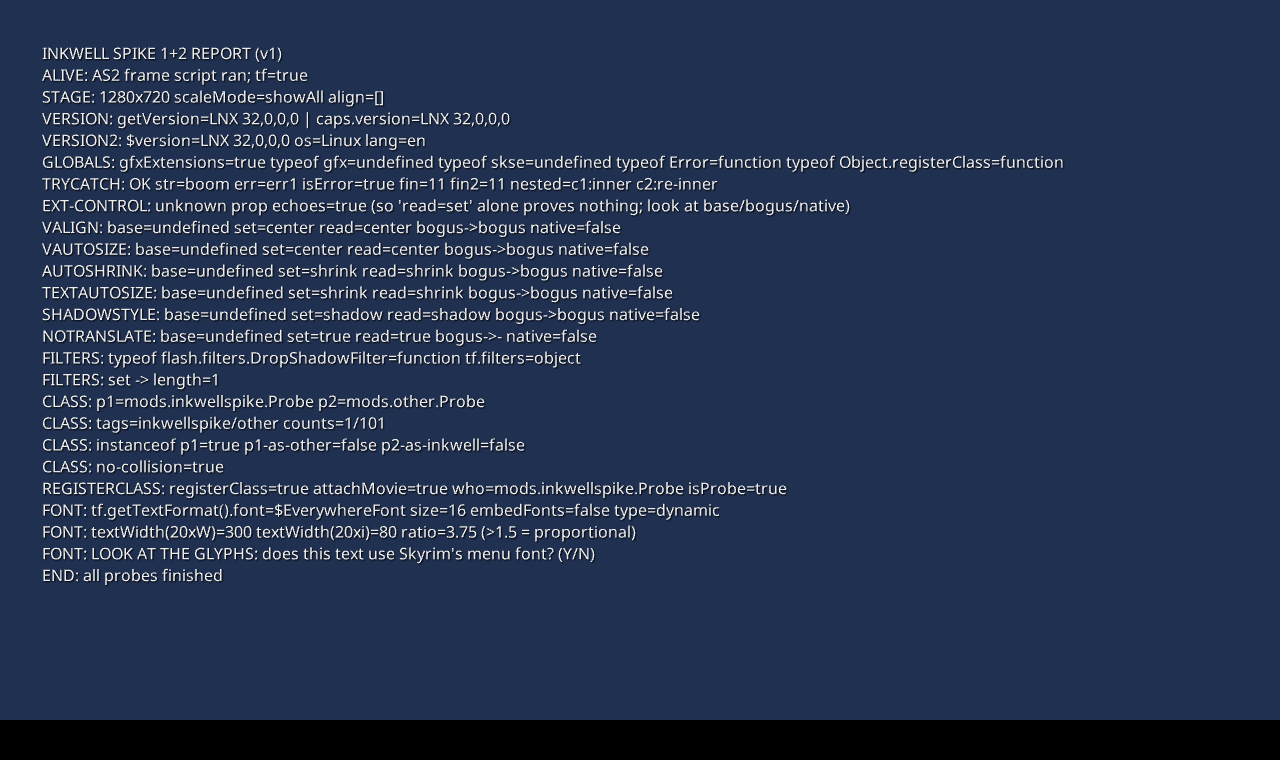
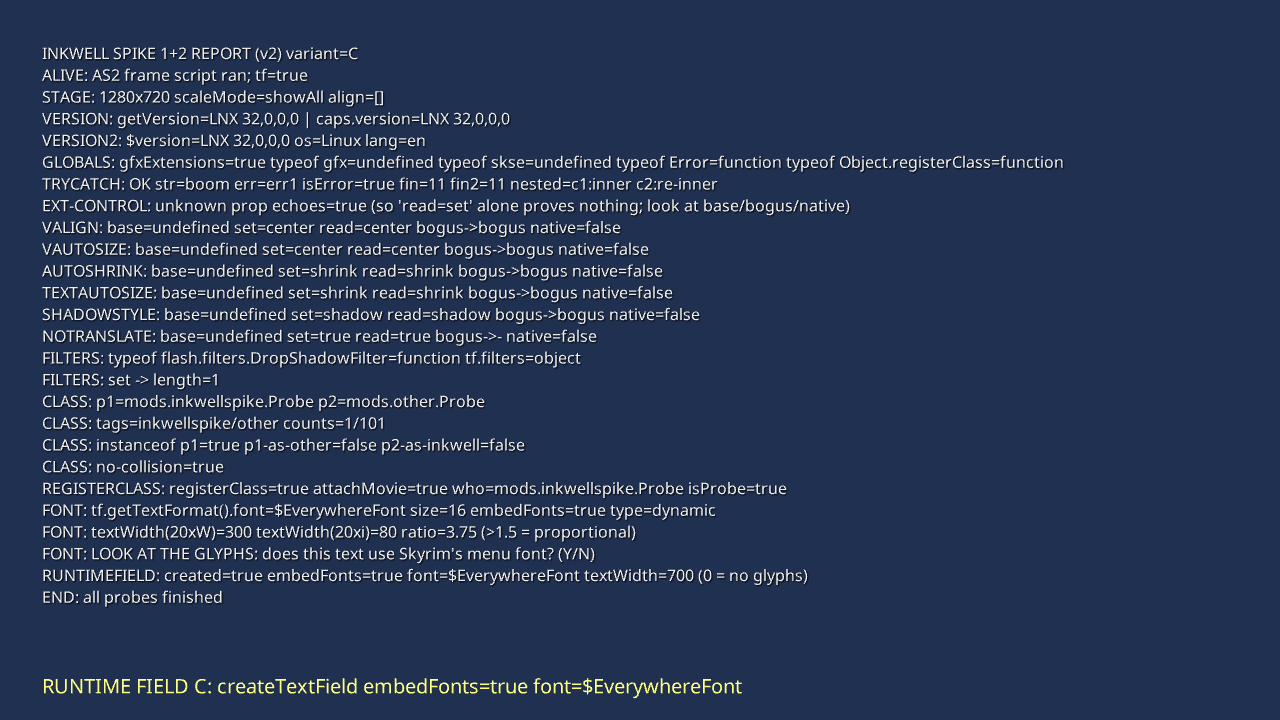
Spike 1+2: diagnose invisible in-game text, build font variants A/B/C
In-game run 1 drew the background but no text. Vanilla menus never use
fontClass/device text: they ImportAssets2 the font by name from
gfxfontlib.swf (resolved via fontconfig.txt) and set fontId + UseOutlines.
build.ps1 now builds A (vanilla import), B (old fontClass), C (local
zero-glyph DefineFont2), and every variant sends its report to Inkwell.log
via _root.inkwellTrace from an onEnterFrame retry loop, plus a runtime
createTextField(embedFonts) probe.

Changed region(s): [[0.0312, 0.0611, 0.8438, 0.8556], [0.0, 0.9472, 1.0, 1.0]]

diff --git a/spikes/ffdec-compile/README.md b/spikes/ffdec-compile/README.md
@@ -1,6 +1,45 @@
 # Spike 1 + 2: FFDec compile and AS2/GFx probes (milestone 0.0)
 
-Status: **static and Ruffle checks done. In-game results are UNVERIFIED, awaiting in-game** (needs the runtime-DLL spike to load `Interface/InkwellSpike.swf` as a custom menu).
+Status: **in-game run 1 failed visibly (no text drawn); diagnosed; three font variants A/B/C built and deployed, awaiting in-game run 2.**
+
+## In-game run 1 (Skyrim SE 1.7.104, runtime-menu DLL spike)
+
+Log: `LoadMovieEx returned true`, `_root exists: true`, `installed _root.inkwellTrace: true`. On screen: the dark-blue 1280x720 background shape, but **no text at all**, not even the placeholder `INKWELL SPIKE: AS2 NOT RUN`. So the SWF loads and renders shapes, but the TextField draws nothing. Run 1 cannot tell whether AS2 ran (the placeholder is invisible too, and the frame script ran before `_root.inkwellTrace` existed).
+
+### Diagnosis (evidence: vanilla SWFs from `Skyrim - Interface.bsa`, read with FFDec `-swf2xml`, nothing committed)
+
+Every vanilla menu text field checked (messagebox.swf 2/2, inventorymenu.swf 7/7, hudmenu.swf 19/20) uses this encoding, and none uses `fontClass`:
+
+- `ImportAssets2 url="gfxfontlib.swf"` importing a font by name into a local character id, e.g. messagebox `7 = $EverywhereMediumFont`, inventorymenu `14 = $EverywhereMediumFont`, hudmenu `164 = $EverywhereMediumFont`, `439 = $DragonFont`;
+- `DefineEditText hasFont=true fontId=<that id> hasFontClass=false useOutlines=true wasStatic=false readOnly=true html=true` (initial HTML `<font face="$EverywhereMediumFont" ...>`), usually followed by `CSMSettings`.
+
+`gfxfontlib.swf` in the BSA does **not** export `$EverywhereMediumFont` or `$EverywhereFont` (its exports: `$MageScriptFont $SkyrimSymbolsFont $DaedricFont $DwemerFont $FalmerFont $DragonFont $StartMenuFont $DialogueTextFont $ConsoleFont $EverywhereBoldFont $SkyrimBooks $SkyrimBooks_Unreadable`). The import is resolved by GFx's font manager through `interface/fontconfig.txt` (`fontlib "Interfaceonts_en.swf"`, `map "$EverywhereFont" = "Futura CondensedLight" Normal`, `map "$EverywhereMediumFont" = "Futura Condensed" Normal`), i.e. the name lands in `fonts_en.swf`'s `DefineFont3` glyphs.
+
+Our field had `useOutlines=false` (device font) and `HasFontClass` with `fontId=0`. Device text needs a system font provider, which Skyrim does not appear to install (all vanilla text is outline text), and `fontClass` is an AS3-era (SWF 9) field that GFx's AS2 path most likely ignores (worst case misparses). Either way no glyph source: nothing drawn, consistent with run 1. Confidence: high that the encoding is the cause (vanilla never uses ours, always uses A); medium on which of the two flags is the decisive one. Hypothesis "AS2 did not run" is not excluded by run 1; run 2 settles it via the log.
+
+### Variants for run 2 (`build.ps1` builds all three; same shape, same AS2 probes, only the report field's font encoding differs)
+
+| Variant | File / hotkey | Report field font encoding |
+| --- | --- | --- |
+| A | `InkwellSpikeA.swf`, O (24) | exactly vanilla: `ImportAssets2 gfxfontlib.swf $EverywhereMediumFont` -> id 3, `fontId=3`, `useOutlines=true` |
+| B | `InkwellSpikeB.swf`, P (25) | run-1 build: `fontClass=$EverywhereFont`, `fontId=0`, `useOutlines=false` (expected: invisible again) |
+| C | `InkwellSpikeC.swf`, L (38) | no import: local zero-glyph `DefineFont2 "$EverywhereFont"` (id 3), `fontId=3`, `useOutlines=true` (GFx should substitute the glyph-less font by name via fontconfig) |
+
+All variants additionally (AS2, unchanged probes plus):
+- header line `INKWELL SPIKE 1+2 REPORT (v2) variant=X`; placeholder text `INKWELL SPIKE (font=import|class|define): AS2 NOT RUN`;
+- probe e) `RUNTIMEFIELD`: a field made at runtime with `createTextField`, `embedFonts=true`, `TextFormat.font="$EverywhereFont"`, yellow, bottom-left at y=670: the no-SWF-font-tag route (what SkyUI-style code does);
+- LOG: an `onEnterFrame` loop (installed before the probes, so it survives an AS2 crash mid-probe) polls `_root.inkwellTrace` each frame and, once it exists, sends every report line (also later ones) to `Inkwell.log`, then stops after `END` (or 300 frames; it gives up after 900 frames without the function).
+
+### What to read back from `Documents\My Games\Skyrim Special Edition\SKSE\Inkwell.log`
+
+Each line looks like `[AS2] inkwellTrace([InkwellSpike A] ...)`. Per variant:
+- `LOG: inkwellTrace seen after N frame(s); lines=K` - present = AS2 runs (hypothesis 3 dead); absent = the frame script never ran.
+- all report lines down to `END: all probes finished` and `LOG: done, sent K lines` (the full probe results for spike 2, even if nothing renders).
+- `FONT: textWidth(20xW)=... textWidth(20xi)=...` - nonzero widths mean the report field's font resolved to glyphs; 0/0 means no glyph source (expected for B).
+- `RUNTIMEFIELD: ... textWidth=...` - same question for the runtime-created field.
+- On screen per variant: is the report visible (Y/N), is the yellow `RUNTIME FIELD X` line visible (Y/N), Skyrim's Futura glyphs (Y/N)?
+
+Expected if the diagnosis holds: A visible in Skyrim's font; B invisible with textWidth 0; C and RUNTIMEFIELD visible if GFx maps glyph-less/embedFonts names through fontconfig (unknown; if they work, Inkwell can skip the import tag).
 
 ## Questions
 
@@ -12,10 +51,10 @@ Status: **static and Ruffle checks done. In-game results are UNVERIFIED, awaitin
 - `gen-swf.mjs`: Node (no deps) emits a skeleton SWF v10, 1280x720: `SetBackgroundColor`, placeholder `DefineShape`, one `DefineEditText` (dynamic, ReadOnly, HasFont + fontClass `$EverywhereFont`, no embedded glyphs, instance name `report`), three empty exported sprites (`__Packages.mods.inkwellspike.Probe`, `__Packages.mods.other.Probe`, `InkwellProbeClip`) with placeholder `DoInitAction`s, empty frame `DoAction`. FFDec has no "new SWF" command, so this is the template.
 - `src/shapes/1.svg`: the one shape (1280x720 background rect); `-importShapes` replaces character 1 (it keeps the old bounds, so the skeleton bounds already match).
 - `src/as2/frame_1/DoAction.as`: all probes. `src/as2/__Packages/mods/{inkwellspike,other}/Probe.as`: the two classes. `-importScript` compiles them with FFDec's own AS2 compiler.
-- `build.ps1`: reproduces `build/InkwellSpike.swf` (`-Deploy` copies it to `C:\Modding\MO2\mods\Inkwell Spikes\Interface\InkwellSpike.swf`, an MO2 mod folder, never the game's Data). `-FontMode define -Out ...` builds a variant using a zero-glyph `DefineFont2` named `$EverywhereFont` (what the Flash IDE emits for a device font) in case GFx ignores `fontClass`; only the primary is deployed.
+- `build.ps1`: reproduces `build/InkwellSpike{A,B,C}.swf` (font modes `import`/`class`/`define` of `gen-swf.mjs`, see run-2 variants above); each variant gets a copy of `src/as2` with `var VARIANT = "X";` prepended. `-Deploy` copies them to `C:\Modding\MO2\mods\Inkwell Spikes\Interface\` (an MO2 mod folder, never the game's Data) and removes the old `InkwellSpike.swf`. Menu JSONs (`inkwell_spike_{a,b,c}.json`, hotkeys O/P/L) live in that mod's `SKSE\Plugins\Inkwell\menus\`.
 - `warm.js` + `bench.ps1`: warm-JVM wrapper and benchmark. `ruffle-sanity.png`: Ruffle render.
 
-Run: `./build.ps1 -Deploy` (needs Node 22, FFDec at `C:\Program Files (x86)\FFDec`). Bench: `./bench.ps1 -Runs 10`. Warm wrapper alone:
+Run: `./build.ps1 [-Deploy]` (needs Node 22, FFDec at `C:\Program Files (x86)\FFDec`). Bench: `./bench.ps1 -Runs 10`. Warm wrapper alone:
 `jjs -J-cp "<FFDec>\ffdec.jar;<FFDec>\lib\*" warm.js -- <base.swf> <shapesDir> <as2Dir> <out.swf> <runs>`, or `-- --stdin` with one job per line `base|shapesDir|as2Dir|out` (reply `OK <ms>`).
 
 FFDec is only driven as a separate process / loaded from its install dir; nothing of it is in the repo.
@@ -46,7 +85,7 @@ Reading: cold FFDec is about 2.4 s per build, far over the 1 s target; a residen
 
 ## Ruffle sanity (done; Ruffle is not GFx)
 
-`@ruffle-rs/ruffle` 0.7.1 (npm) in headless Edge renders the SWF (`ruffle-sanity.png`). Per probe: ALIVE ok; STAGE 1280x720; TRYCATCH OK (`str=boom err=err1 isError=true fin=11 fin2=11 nested=c1:inner c2:re-inner`); every GFx extension line shows `base=undefined ... bogus->bogus native=false` (expected: Ruffle has none, and TextField is dynamic so assignment echoes); FILTERS DropShadow set ok; CLASS no-collision=true; REGISTERCLASS true / attachMovie true / isProbe=true; FONT reports `$EverywhereFont` (just the format name, not proof of resolution), type=dynamic.
+`@ruffle-rs/ruffle` 0.7.1 (npm) in headless Edge renders the SWF (`ruffle-sanity.png`, now variant C; B renders identically, A stays blank in Ruffle because it cannot resolve the `gfxfontlib.swf` import, which proves nothing about GFx). Ruffle falls back to a system font for every encoding, so it cannot validate fonts. Run-1 notes: Per probe: ALIVE ok; STAGE 1280x720; TRYCATCH OK (`str=boom err=err1 isError=true fin=11 fin2=11 nested=c1:inner c2:re-inner`); every GFx extension line shows `base=undefined ... bogus->bogus native=false` (expected: Ruffle has none, and TextField is dynamic so assignment echoes); FILTERS DropShadow set ok; CLASS no-collision=true; REGISTERCLASS true / attachMovie true / isProbe=true; FONT reports `$EverywhereFont` (just the format name, not proof of resolution), type=dynamic.
 
 ## Result per probe
 
@@ -63,17 +102,17 @@ How to judge the extension lines in-game: `read=set` alone proves nothing (the E
 ## On-screen report the human should read back
 
 Top-left, 16 px, light text on a dark blue 1280x720 background. Lines in order (read them back verbatim, everything after the colon matters):
-`INKWELL SPIKE 1+2 REPORT (v1)`, `ALIVE`, `STAGE`, `VERSION`, `VERSION2`, `GLOBALS`, `TRYCATCH`, `EXT-CONTROL`, `VALIGN`, `VAUTOSIZE`, `AUTOSHRINK`, `TEXTAUTOSIZE`, `SHADOWSTYLE`, `NOTRANSLATE`, `FILTERS` (2 lines), `CLASS` (4 lines), `REGISTERCLASS`, `FONT` (3 lines), `END: all probes finished`.
+`INKWELL SPIKE 1+2 REPORT (v2) variant=X`, `ALIVE`, `STAGE`, `VERSION`, `VERSION2`, `GLOBALS`, `TRYCATCH`, `EXT-CONTROL`, `VALIGN`, `VAUTOSIZE`, `AUTOSHRINK`, `TEXTAUTOSIZE`, `SHADOWSTYLE`, `NOTRANSLATE`, `FILTERS` (2 lines), `CLASS` (4 lines), `REGISTERCLASS`, `FONT` (3 lines), `RUNTIMEFIELD`, `END: all probes finished`. The same lines are in `Inkwell.log` (see above).
 
-Text is refreshed after every probe, so if the AS2 dies partway, the last line shown says where. Initial text `INKWELL SPIKE: AS2 NOT RUN` means the SWF loaded but the frame script never ran. Nothing on screen means the SWF did not load or the text field did not draw (then try the `-FontMode define` variant). Also answer visually: does the glyph style match Skyrim's menu font (Y/N), and is the dark-blue 1280x720 background visible and aligned?
+Text is refreshed after every probe, so if the AS2 dies partway, the last line shown says where. Initial text `INKWELL SPIKE (font=...): AS2 NOT RUN` means the SWF loaded but the frame script never ran. Nothing on screen means the text field did not draw (run 1); then the log is the evidence. Also answer visually: does the glyph style match Skyrim's menu font (Y/N), and is the dark-blue 1280x720 background visible and aligned?
 
 ## In-game path
 
-Only via the Inkwell Runtime DLL spike, which should open `Interface/InkwellSpike.swf` as a custom menu (the SWF needs no engine/SKSE functions; frame 1 runs everything; it uses `this._lockroot`). Overwriting vanilla SWFs is not allowed, so there is no DLL-free test. The test file is deployed to `C:\Modding\MO2\mods\Inkwell Spikes\Interface\InkwellSpike.swf`. `trace()` output only appears in the Scaleform log if enabled.
+Only via the Inkwell Runtime DLL spike, which should open `Interface/InkwellSpike{A,B,C}.swf` as custom menus (the SWF needs no engine/SKSE functions; frame 1 runs everything; it uses `this._lockroot`). Overwriting vanilla SWFs is not allowed, so there is no DLL-free test. The test files are deployed to `C:\Modding\MO2\mods\Inkwell Spikes\Interface\InkwellSpike{A,B,C}.swf`. `trace()` output only appears in the Scaleform log if enabled.
 
 ## Risks
 
-- `fontClass` with `HasFont` + `fontId=0` is the requested encoding; GFx 3.x may ignore it and use a default font (use the `define` variant then).
+- Confirmed in run 1: `fontClass` + device text draws nothing in Skyrim's GFx. Inkwell output must use outline text with a font GFx can resolve (variant A's encoding is the vanilla one).
 - SWF v10 is a guess for Skyrim's GFx; `-Version 8` is available if it will not load.
 - The warm path uses FFDec internal classes (`SvgImporter`, `AS2ScriptImporter`), unstable across FFDec versions; pin and verify the version.
 - Warm timing excludes preview and the SVG complexity of real designs.
